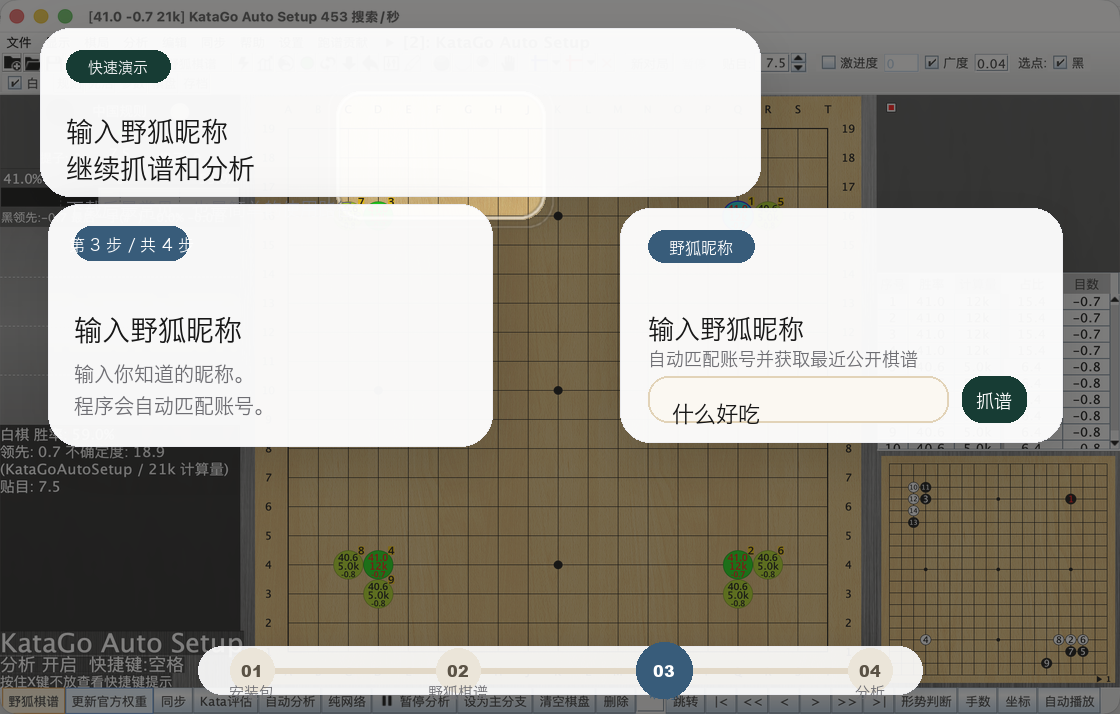
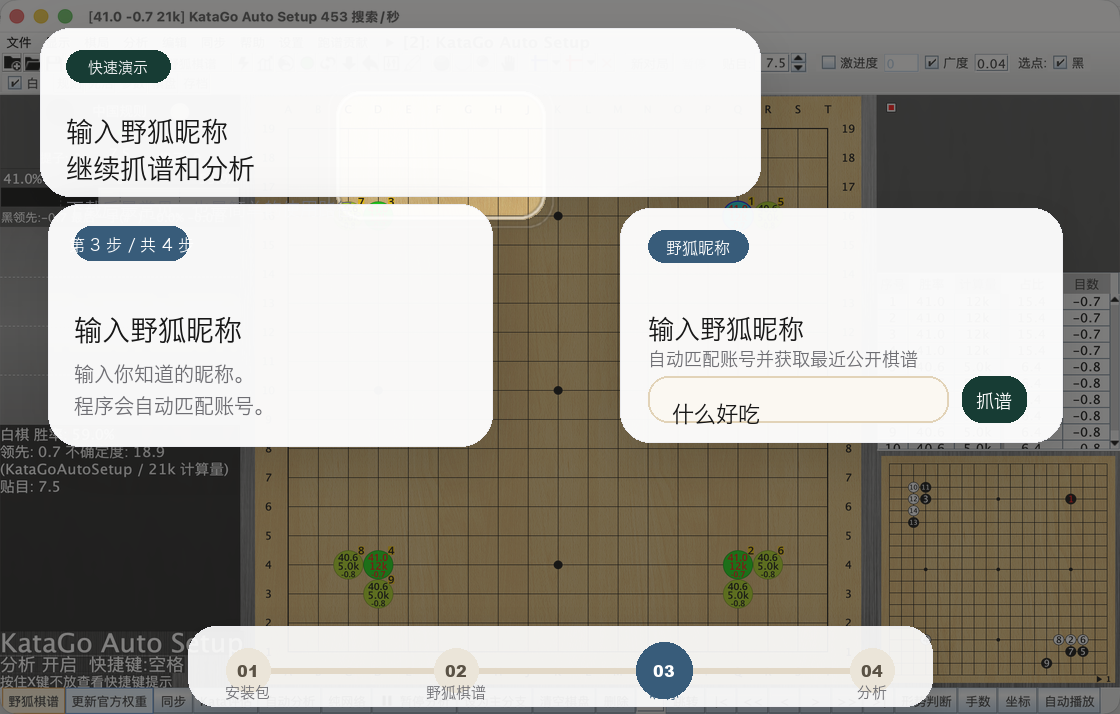
docs: polish community docs and README demo artwork

Changed region(s): [[0.1562, 0.8627, 0.8438, 1.0], [0.5938, 0.3389, 0.6875, 0.3697]]

diff --git a/scripts/render_homepage_demo.py b/scripts/render_homepage_demo.py
@@ -232,25 +232,31 @@ def draw_header(canvas, cfg):
 
 def draw_step_bar(canvas, active_step, cfg):
     draw = ImageDraw.Draw(canvas)
+    bar_rect = (188, 626, 932, 706)
+    x0, y0, x1, y1 = bar_rect
     bar = rounded_overlay(
         canvas.size,
-        (198, 646, 922, 694),
-        24,
+        bar_rect,
+        28,
         (255, 255, 255, 232),
         shadow=(0, 10, 18, (17, 17, 17, 26)),
         stroke=COLOR_PANEL_STROKE,
     )
     canvas.alpha_composite(bar)
-    draw.line((252, 670, 868, 670), fill=(218, 205, 184, 200), width=6)
-    xs = [252, 458, 664, 870]
+    inner_left = x0 + 60
+    inner_right = x1 - 60
+    circle_y = y0 + 44
+    label_y = y0 + 66
+    xs = [round(inner_left + idx * (inner_right - inner_left) / 3) for idx in range(4)]
+    draw.line((xs[0], circle_y, xs[-1], circle_y), fill=(218, 205, 184, 200), width=6)
     for idx, (label, color, cx) in enumerate(zip(cfg['step_labels'], ACCENTS, xs), start=1):
         r = 28 if idx == active_step else 22
         fill = color if idx == active_step else (235, 229, 217, 255)
-        draw.ellipse((cx - r, 670 - r, cx + r, 670 + r), fill=fill)
+        draw.ellipse((cx - r, circle_y - r, cx + r, circle_y + r), fill=fill)
         num_fill = (255, 255, 255, 255) if idx == active_step else (90, 82, 69, 255)
-        draw_text(draw, (cx, 670), f'{idx:02d}', font(cfg, 'bar_num'), num_fill, anchor='mm')
+        draw_text(draw, (cx, circle_y), f'{idx:02d}', font(cfg, 'bar_num'), num_fill, anchor='mm')
         label_fill = color if idx == active_step else COLOR_MUTED
-        draw_text(draw, (cx, 698), label, font(cfg, 'bar_label'), label_fill, anchor='ms')
+        draw_text(draw, (cx, label_y), label, font(cfg, 'bar_label'), label_fill, anchor='mm')
 
 
 def draw_callout(canvas, step_num, scene, cfg):
@@ -357,7 +363,16 @@ def draw_step3_modal(canvas, cfg):
     )
     canvas.alpha_composite(modal)
     draw = ImageDraw.Draw(canvas)
-    draw_chip(draw, (648, 230, 754, 262), cfg['modal_chip'], ACCENTS[2], (255, 255, 255, 255), font(cfg, 'step_chip'))
+    modal_chip_font = font(cfg, 'step_chip')
+    modal_chip_width = int(draw.textlength(cfg['modal_chip'], font=modal_chip_font) + 36)
+    draw_chip(
+        draw,
+        (648, 230, 648 + modal_chip_width, 262),
+        cfg['modal_chip'],
+        ACCENTS[2],
+        (255, 255, 255, 255),
+        modal_chip_font,
+    )
     draw_text(draw, (648, 316), cfg['modal_title'], font(cfg, 'modal_title'), COLOR_TEXT)
     draw_text(draw, (648, 350), cfg['modal_sub'], font(cfg, 'modal_body'), COLOR_MUTED)
     draw.rounded_rectangle((648, 376, 948, 422), radius=20, fill=(251, 248, 242, 255), outline=(226, 211, 184, 255), width=2)

diff --git a/scripts/check_markdown_links.py b/scripts/check_markdown_links.py
@@ -12,6 +12,8 @@ FILES = [
     ROOT / "CONTRIBUTING.md",
     ROOT / "CODE_OF_CONDUCT.md",
     ROOT / "SECURITY.md",
+    ROOT / "SUPPORT.md",
+    ROOT / "ROADMAP.md",
 ]
 FILES.extend(sorted((ROOT / "docs").glob("*.md")))
 

diff --git a/SUPPORT.md b/SUPPORT.md
@@ -1,16 +1,19 @@
 # Support
 
-如果你在使用 `LizzieYzy Next` 时遇到问题，先按下面的入口选择，会比直接发一个模糊 issue 更快得到结果。
+如果你在使用 `LizzieYzy Next` 时遇到问题，先选对入口，通常会比直接发一个模糊 issue 更快得到结果。
 
-If you need help with `LizzieYzy Next`, please pick the closest path below. Clear routing helps us respond faster.
+If you need help with `LizzieYzy Next`, start with the closest path below. Clear routing helps us answer faster.
 
 ## Where To Ask
 
-- 使用问题、配置建议、包怎么选：请优先到 [GitHub Discussions](https://github.com/wimi321/lizzieyzy-next/discussions)
-- 可稳定复现的软件问题：请提交 [Bug Report](https://github.com/wimi321/lizzieyzy-next/issues/new?template=bug_report.yml)
-- 安装成功 / 安装失败 / 首次启动异常：请提交 [Installation Report](https://github.com/wimi321/lizzieyzy-next/issues/new?template=installation_report.yml)
-- 安全问题：请阅读 [SECURITY.md](SECURITY.md)
-- 下载发布包：请前往 [Releases](https://github.com/wimi321/lizzieyzy-next/releases)
+| 你想做什么 | 推荐入口 |
+| --- | --- |
+| 问怎么安装、怎么选包、怎么使用 | [GitHub Discussions](https://github.com/wimi321/lizzieyzy-next/discussions) |
+| 想直接和中文用户讨论 | QQ 群 `299419120` |
+| 反馈可稳定复现的软件问题 | [Bug Report](https://github.com/wimi321/lizzieyzy-next/issues/new?template=bug_report.yml) |
+| 反馈安装成功 / 安装失败 / 首次启动异常 | [Installation Report](https://github.com/wimi321/lizzieyzy-next/issues/new?template=installation_report.yml) |
+| 查看下载包 | [Releases](https://github.com/wimi321/lizzieyzy-next/releases) |
+| 处理安全问题 | [SECURITY.md](SECURITY.md) |
 
 ## Before You Open A Report
 
@@ -20,7 +23,7 @@ If you need help with `LizzieYzy Next`, please pick the closest path below. Clea
 - 你下载的安装包文件名
 - 机器架构：Windows x64 / Windows x86 / macOS Apple Silicon / macOS Intel / Linux x64
 - 是否使用 `with-katago` 或 `without.engine`
-- 如果问题和野狐抓谱相关，请提供 **野狐ID**
+- 如果问题和野狐抓谱相关，请提供你输入的 **野狐昵称**
 - 错误截图、日志、系统安全提示
 
 ## Fastest Path For Common Cases
@@ -28,7 +31,8 @@ If you need help with `LizzieYzy Next`, please pick the closest path below. Clea
 - “我不知道该下载哪个包” -> 先看 [docs/PACKAGES.md](docs/PACKAGES.md)
 - “我装不上 / 启动不了” -> 先看 [docs/INSTALL.md](docs/INSTALL.md) 和 [docs/TROUBLESHOOTING.md](docs/TROUBLESHOOTING.md)
 - “我想知道某个平台有没有人实测过” -> 看 [docs/TESTED_PLATFORMS.md](docs/TESTED_PLATFORMS.md)
-- “野狐抓谱没反应” -> 确认你输入的是 **野狐ID**，不是用户名
+- “野狐抓谱没反应” -> 先确认你输入的 **野狐昵称** 是否正确，以及该账号最近是否有公开棋谱
+- “我想知道项目接下来重点维护什么” -> 看 [ROADMAP.md](ROADMAP.md)
 
 ## Scope
 
@@ -40,3 +44,11 @@ If you need help with `LizzieYzy Next`, please pick the closest path below. Clea
 - 原项目常用分析流程
 
 不保证支持每一种自定义引擎组合、每一种历史系统环境，或者所有第三方修改版配置。
+
+## English Notes
+
+- For usage questions and package selection, start with [GitHub Discussions](https://github.com/wimi321/lizzieyzy-next/discussions)
+- For reproducible bugs, use the [Bug Report](https://github.com/wimi321/lizzieyzy-next/issues/new?template=bug_report.yml) form
+- For install success or install failure on real hardware, use the [Installation Report](https://github.com/wimi321/lizzieyzy-next/issues/new?template=installation_report.yml) form
+- For Fox fetch issues, include the **Fox nickname** you entered, the package name, and what happened
+- For the current public priorities, check [ROADMAP.md](ROADMAP.md)

diff --git a/CONTRIBUTING.md b/CONTRIBUTING.md
@@ -1,8 +1,18 @@
 # Contributing Guide
 
-感谢你愿意帮助 `LizzieYzy Next-FoxUID` 变得更稳、更好用。
+感谢你愿意帮助 `LizzieYzy Next` 变得更稳、更好用。
 
 This project is a maintained fork. We care about practical fixes, clear packaging, and keeping the real user workflow working.
+
+## What This Project Optimizes For
+
+当前最重要的事情很直接：
+
+- 普通用户下载安装后，能尽快开始用
+- 野狐抓谱、KataGo 分析、首次启动这条主链路保持可用
+- 发布页、README、安装文档说法一致，不让用户被旧信息带偏
+
+如果你想先看当前公开维护重点，建议先看 [ROADMAP.md](ROADMAP.md)。
 
 ## Before You Open An Issue
 
@@ -10,7 +20,7 @@ This project is a maintained fork. We care about practical fixes, clear packagin
 
 1. 你下载的是不是正确的发布包。
 2. 你的问题是不是已经在 README、release notes 或现有 issue 里出现过。
-3. 如果是野狐抓谱问题，请优先确认你输入的是 **野狐ID**，不是用户名。
+3. 如果是野狐抓谱问题，请优先确认你输入的是 **野狐昵称**，并确认该账号最近有公开棋谱。
 4. 如果是 macOS 问题，请说明是 Apple Silicon 还是 Intel。
 5. 如果是 Windows / Linux 问题，请说明你使用的是 `with-katago` 还是 `without.engine` 包。
 
@@ -26,6 +36,7 @@ This project is a maintained fork. We care about practical fixes, clear packagin
 - 问题出现时的操作步骤
 - 截图或录屏
 - 报错文本
+- 如果和野狐抓谱相关，请写清楚你输入的野狐昵称，以及返回结果
 - 如果能复现，请写出稳定复现步骤
 
 A concise, reproducible report saves a lot of time for everyone.
@@ -46,7 +57,7 @@ A concise, reproducible report saves a lot of time for everyone.
 2. 不要顺手混入无关重构。
 3. 如果改了打包、引擎路径、野狐同步流程，请说明测试方式。打包相关改动建议同时参考 [docs/RELEASE_CHECKLIST.md](docs/RELEASE_CHECKLIST.md)。
 4. 如果改了文案或界面，请附截图。
-5. 尽量保持中英文术语一致，尤其是 `Fox ID / 野狐ID`、`with-katago`、`without.engine`。
+5. 尽量保持中英文术语一致，尤其是 `Fox nickname / 野狐昵称`、`with-katago`、`without.engine`。
 
 如果你准备从源码构建、改打包脚本或继续维护，建议先看 [docs/DEVELOPMENT.md](docs/DEVELOPMENT.md)。
 
@@ -60,12 +71,20 @@ A concise, reproducible report saves a lot of time for everyone.
 - 打包脚本健壮性修复
 - 野狐抓谱兼容性反馈
 - CI / 自动化文档改进
+- Windows / macOS / Linux 实机安装反馈
+- 官方权重下载体验反馈
 
 实机安装验证也很有价值：
 
 - 成功安装也欢迎反馈，不一定非要等出错
 - 这些结果会整理进 [docs/TESTED_PLATFORMS.md](docs/TESTED_PLATFORMS.md)
 - 建议使用 Installation Report 模板提交
+
+## Community
+
+- GitHub Discussions：适合公开讨论使用体验、路线建议和打包选择
+- QQ 群 `299419120`：适合中文用户快速交流
+- Pull Request：适合已经确认方向的具体改动
 
 ## Community Tone
 

diff --git a/ROADMAP.md b/ROADMAP.md
@@ -1,0 +1,64 @@
+# Roadmap
+
+`LizzieYzy Next` 的目标不是做一个“临时修一下就放着”的分支，而是把原来很多人还在用的 `lizzieyzy` 主链路继续维护下去。
+
+The goal of `LizzieYzy Next` is not a one-off patch. It is a maintained continuation focused on the workflow real users still depend on.
+
+## Current Priorities
+
+现在最优先的事情：
+
+- 继续保持野狐棋谱抓取可用，而且让普通用户直接输入 **野狐昵称** 就能完成
+- 继续把 KataGo 整合包做成“下载、安装、打开就能分析”
+- 持续改进 Windows 安装器、macOS `.dmg`、Linux 整合包的可理解性和稳定性
+- 继续完善官方权重下载体验、首次启动自动设置、默认配置自动化
+- 让 README、发布页、安装文档、真实安装包命名始终保持一致
+
+## What We Want This Project To Feel Like
+
+我们希望这个项目给用户的感受是：
+
+- 打开 GitHub 首页就知道该下哪个包
+- 第一次安装不需要先研究很多背景知识
+- 遇到问题时知道去哪里提问、去哪里反馈
+- 发布包不是“能跑就行”，而是尽量像一个认真维护的桌面项目
+
+## Near-Term Work
+
+接下来一段时间会持续推进的方向：
+
+- 更多真实机器安装反馈，尤其是 Windows 和 Intel Mac
+- 更清楚的发布页和 release notes
+- 更稳定的野狐抓谱提示、错误反馈和结果展示
+- 更完整的官方权重选择、下载、停止、恢复体验
+- 更统一的中英文和多语言文案
+- 更顺手的默认设置和首启体验
+
+## Good Help Right Now
+
+如果你想帮忙，这几类反馈最有价值：
+
+- Windows 64 位安装器和便携包的真实安装反馈
+- Intel Mac 和 Linux 桌面环境的实际运行反馈
+- 野狐昵称抓谱的可用性反馈
+- 官方权重下载体验反馈
+- README、安装文档、发布页文案优化
+- 打包、自动化、校验脚本相关改进
+
+## What This Project Is Not Trying To Do First
+
+当前阶段不会优先追求这些方向：
+
+- 支持所有历史系统和所有第三方改版配置
+- 为每一种自定义引擎组合做专门适配
+- 只面向会手工改路径、改参数、改脚本的少数用户
+
+项目当前的第一优先级，仍然是把普通用户最常走的那条链路持续维护好。
+
+## Related Docs
+
+- [README.md](README.md)
+- [SUPPORT.md](SUPPORT.md)
+- [CONTRIBUTING.md](CONTRIBUTING.md)
+- [docs/TESTED_PLATFORMS.md](docs/TESTED_PLATFORMS.md)
+- [docs/RELEASE_CHECKLIST.md](docs/RELEASE_CHECKLIST.md)

diff --git a/README_EN.md b/README_EN.md
@@ -33,6 +33,22 @@
 > - You can now enter a **Fox nickname** directly. The app resolves the account and fetches recent public games automatically.
 > - First launch now tries to prepare the bundled analysis setup for you.
 
+## Community And Project Status
+
+| If you want to... | Go here |
+| --- | --- |
+| Download and install | [Releases](https://github.com/wimi321/lizzieyzy-next/releases) / [Installation Guide](docs/INSTALL_EN.md) |
+| Report bugs or installation results | [Support](SUPPORT.md) |
+| Discuss ideas and day-to-day usage | [GitHub Discussions](https://github.com/wimi321/lizzieyzy-next/discussions) / Chinese QQ group `299419120` |
+| See what the project is focusing on next | [ROADMAP.md](ROADMAP.md) |
+| Help maintain the project | [CONTRIBUTING.md](CONTRIBUTING.md) |
+
+This repository is deliberately focused on a few practical goals:
+
+- keep the LizzieYzy workflow maintained for the users who still rely on it
+- keep Fox game fetching, bundled KataGo, and release packages usable for normal users
+- reduce setup friction instead of assuming everyone wants to hand-configure everything
+
 ## Most Users Start Here
 
 If you are on **Windows**, download:
@@ -142,6 +158,8 @@ Current macOS builds are not signed or notarized yet. If macOS blocks the app th
 - [Package Overview](docs/PACKAGES_EN.md)
 - [Troubleshooting](docs/TROUBLESHOOTING_EN.md)
 - [Tested Platforms](docs/TESTED_PLATFORMS.md)
+- [Roadmap](ROADMAP.md)
+- [Contributing](CONTRIBUTING.md)
 - [Changelog](CHANGELOG.md)
 - [Support](SUPPORT.md)
 

diff --git a/README.md b/README.md
@@ -38,6 +38,22 @@
 > - 现在直接输入 **野狐昵称** 就行，程序会自动找到账号并获取最近公开棋谱
 > - 主推荐整合包已内置 KataGo，第一次打开会自动准备好
 
+## 社区与项目状态
+
+| 你现在想做什么 | 直接去这里 |
+| --- | --- |
+| 下载和安装 | [Releases](https://github.com/wimi321/lizzieyzy-next/releases) / [安装说明](docs/INSTALL.md) |
+| 反馈 bug 或安装结果 | [Support](SUPPORT.md) |
+| 讨论使用体验、提功能建议 | [GitHub Discussions](https://github.com/wimi321/lizzieyzy-next/discussions) / QQ 群 `299419120` |
+| 看项目接下来重点做什么 | [ROADMAP.md](ROADMAP.md) |
+| 想一起参与维护 | [CONTRIBUTING.md](CONTRIBUTING.md) |
+
+当前这个仓库的定位很明确：
+
+- 持续维护 `lizzieyzy` 这条用户还在大量使用的分析链路
+- 优先保证野狐抓谱、KataGo 开箱即用、安装发布包易懂
+- 面向普通用户做简化，而不是只面向会自己折腾环境的人
+
 <p align="center">
   <img src="assets/highlights-zh.svg" alt="LizzieYzy Next 维护版亮点" width="100%" />
 </p>
@@ -151,6 +167,8 @@
 - [发布包说明](docs/PACKAGES.md)
 - [常见问题与排错](docs/TROUBLESHOOTING.md)
 - [已验证平台](docs/TESTED_PLATFORMS.md)
+- [项目路线图](ROADMAP.md)
+- [参与贡献](CONTRIBUTING.md)
 - [更新日志](CHANGELOG.md)
 - [Support](SUPPORT.md)
 

diff --git a/CODE_OF_CONDUCT.md b/CODE_OF_CONDUCT.md
@@ -1,6 +1,6 @@
 # Code Of Conduct
 
-`LizzieYzy Next-FoxUID` 希望成为一个让人愿意长期参与的项目。
+`LizzieYzy Next` 希望成为一个让人愿意长期参与的项目。
 
 我们欢迎直接、具体、有效的反馈，也希望讨论始终保持基本的尊重。
 
